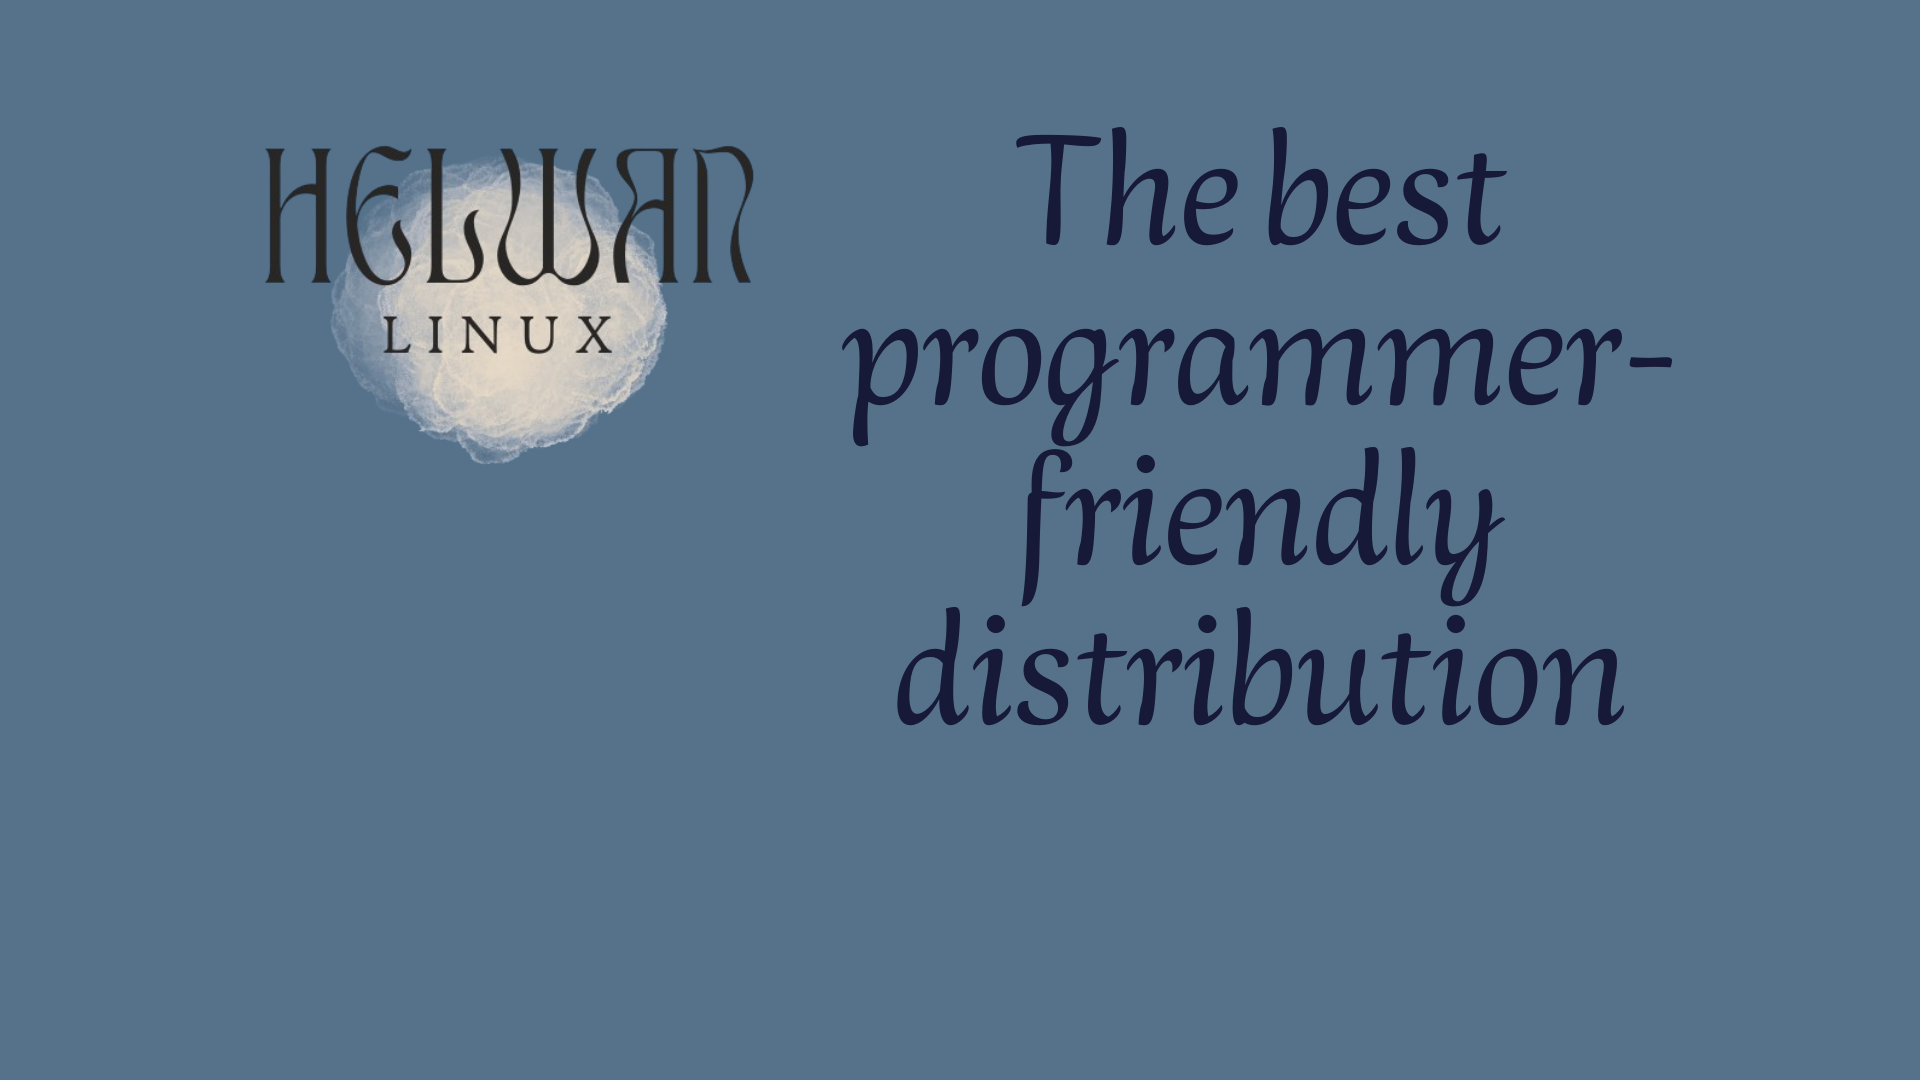
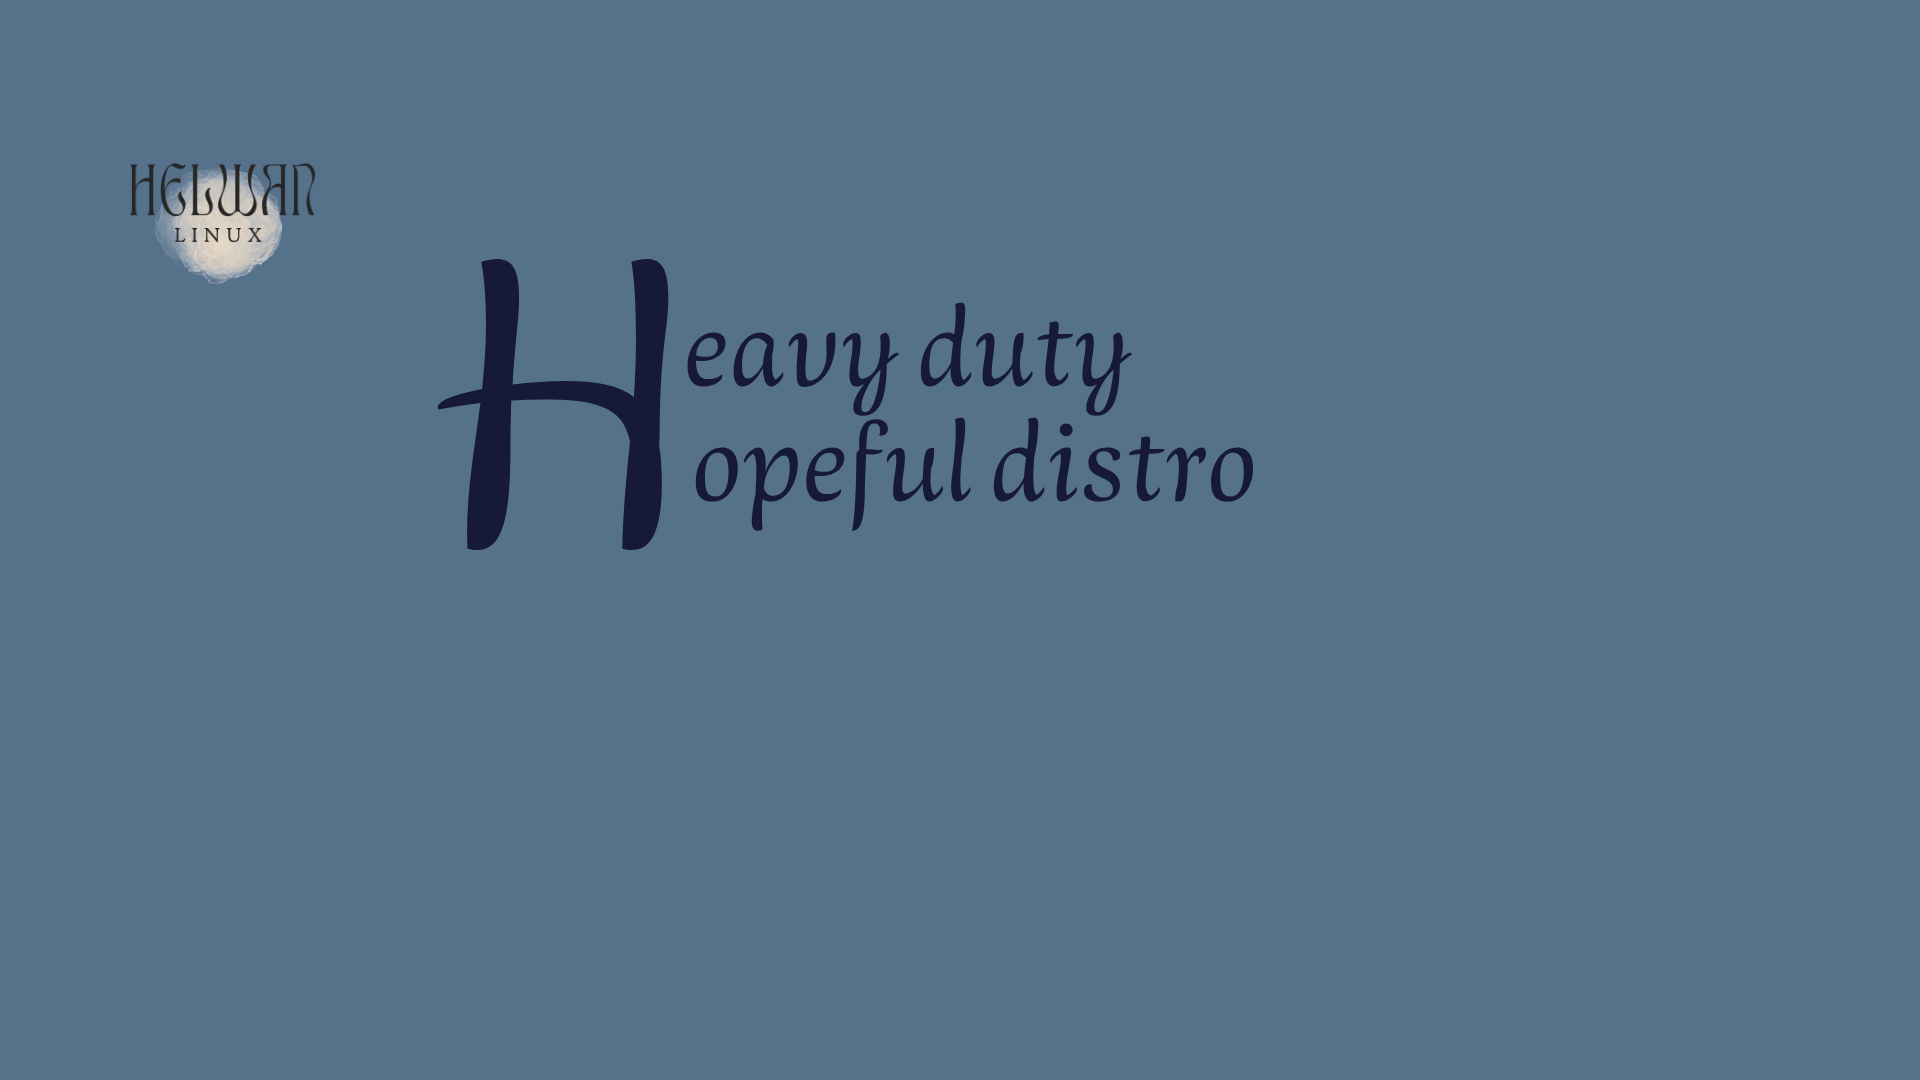
Add files via upload

Changed region(s): [[0.0625, 0.1222, 0.875, 0.6722], [0.5312, 0.1222, 0.7812, 0.2444]]

diff --git a/etc/calamares/branding/helwan/show.qml b/etc/calamares/branding/helwan/show.qml
@@ -256,6 +256,144 @@ Slide
     }
 
 
+Slide
+    {
+        anchors.fill: parent
+        anchors.verticalCenterOffset: 0
+
+        Image
+        {
+            id: background14
+            source: "slide14.png"
+            width: parent.width; height: parent.height
+            horizontalAlignment: Image.AlignCenter
+            verticalAlignment: Image.AlignTop
+            fillMode: Image.Stretch
+            anchors.fill: parent
+        }
+    }
+
+Slide
+    {
+        anchors.fill: parent
+        anchors.verticalCenterOffset: 0
+
+        Image
+        {
+            id: background15
+            source: "slide15.png"
+            width: parent.width; height: parent.height
+            horizontalAlignment: Image.AlignCenter
+            verticalAlignment: Image.AlignTop
+            fillMode: Image.Stretch
+            anchors.fill: parent
+        }
+    }
+
+Slide
+    {
+        anchors.fill: parent
+        anchors.verticalCenterOffset: 0
+
+        Image
+        {
+            id: background16
+            source: "slide16.png"
+            width: parent.width; height: parent.height
+            horizontalAlignment: Image.AlignCenter
+            verticalAlignment: Image.AlignTop
+            fillMode: Image.Stretch
+            anchors.fill: parent
+        }
+    }
+
+Slide
+    {
+        anchors.fill: parent
+        anchors.verticalCenterOffset: 0
+
+        Image
+        {
+            id: background17
+            source: "slide17.png"
+            width: parent.width; height: parent.height
+            horizontalAlignment: Image.AlignCenter
+            verticalAlignment: Image.AlignTop
+            fillMode: Image.Stretch
+            anchors.fill: parent
+        }
+    }
+
+Slide
+    {
+        anchors.fill: parent
+        anchors.verticalCenterOffset: 0
+
+        Image
+        {
+            id: background18
+            source: "slide18.png"
+            width: parent.width; height: parent.height
+            horizontalAlignment: Image.AlignCenter
+            verticalAlignment: Image.AlignTop
+            fillMode: Image.Stretch
+            anchors.fill: parent
+        }
+    }
+    
+    
+    Slide
+    {
+        anchors.fill: parent
+        anchors.verticalCenterOffset: 0
+
+        Image
+        {
+            id: background19
+            source: "slide19.png"
+            width: parent.width; height: parent.height
+            horizontalAlignment: Image.AlignCenter
+            verticalAlignment: Image.AlignTop
+            fillMode: Image.Stretch
+            anchors.fill: parent
+        }
+    }
+    
+    
+    Slide
+    {
+        anchors.fill: parent
+        anchors.verticalCenterOffset: 0
+
+        Image
+        {
+            id: background20
+            source: "slide20.png"
+            width: parent.width; height: parent.height
+            horizontalAlignment: Image.AlignCenter
+            verticalAlignment: Image.AlignTop
+            fillMode: Image.Stretch
+            anchors.fill: parent
+        }
+    }
+    
+    
+    Slide
+    {
+        anchors.fill: parent
+        anchors.verticalCenterOffset: 0
+
+        Image
+        {
+            id: background21
+            source: "slide21.png"
+            width: parent.width; height: parent.height
+            horizontalAlignment: Image.AlignCenter
+            verticalAlignment: Image.AlignTop
+            fillMode: Image.Stretch
+            anchors.fill: parent
+        }
+    }
 
 
     // When this slideshow is loaded as a V1 slideshow, only
